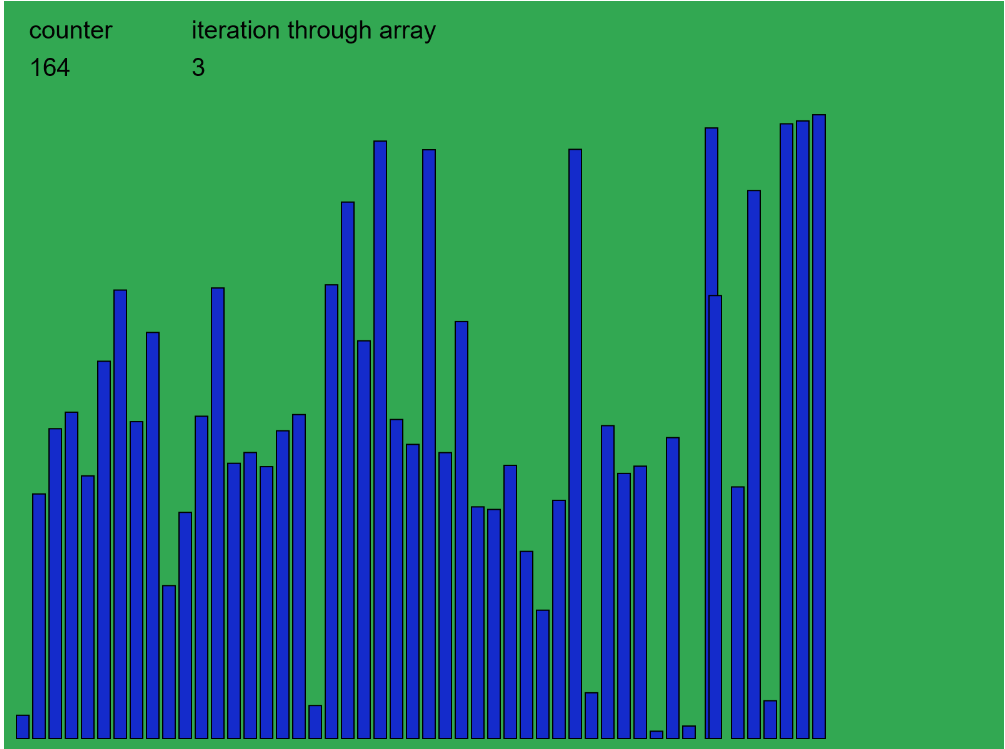
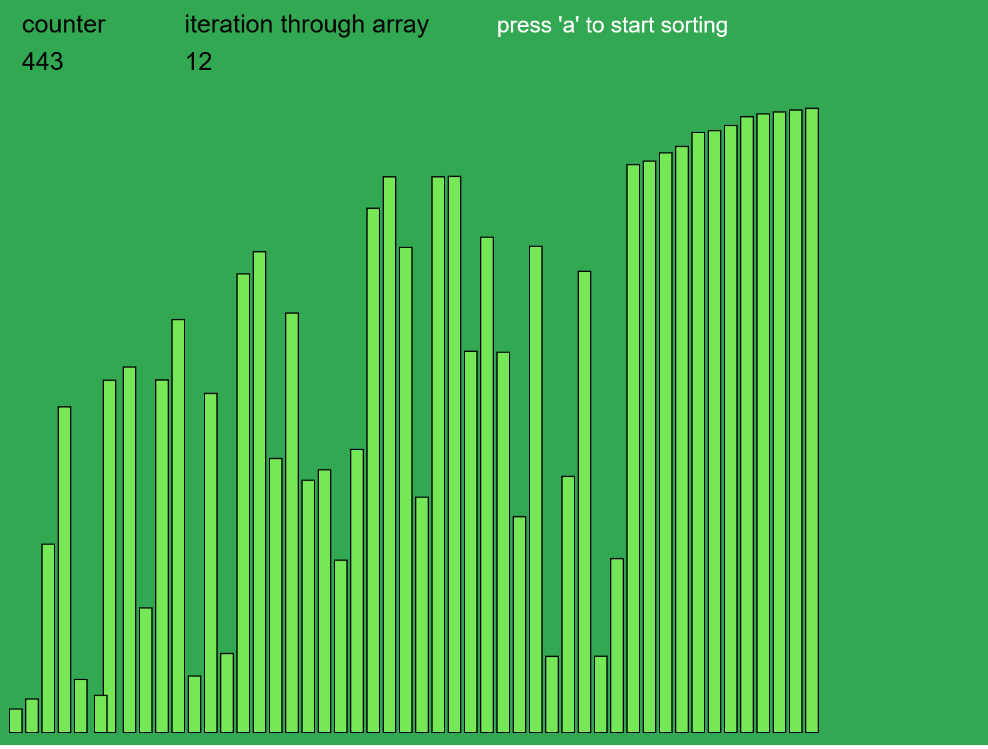
hint + new screen

diff --git a/script.js b/script.js
@@ -199,6 +199,10 @@ function draw() {
     // all array iteration counter
     text('iteration through array', 150, 30);
     text(iterationThroughArrayCounter, 150, 60)
+    // hint
+    fill(color(255, 255, 255));
+    textSize(18);
+    text("press \'a\' to start sorting", 400, 30)
 }
 
 class Value {
